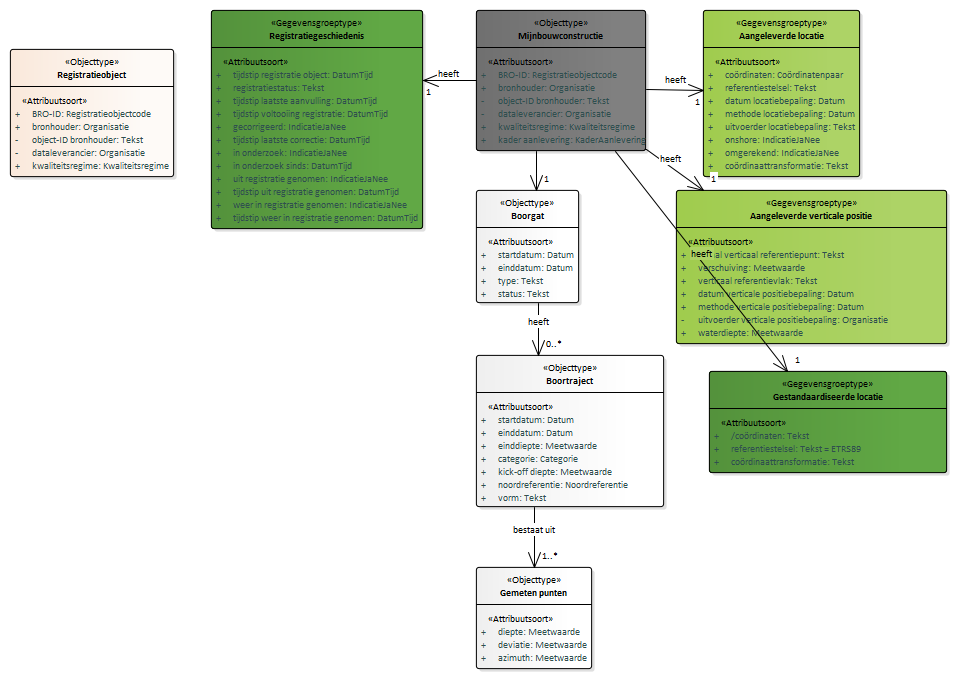
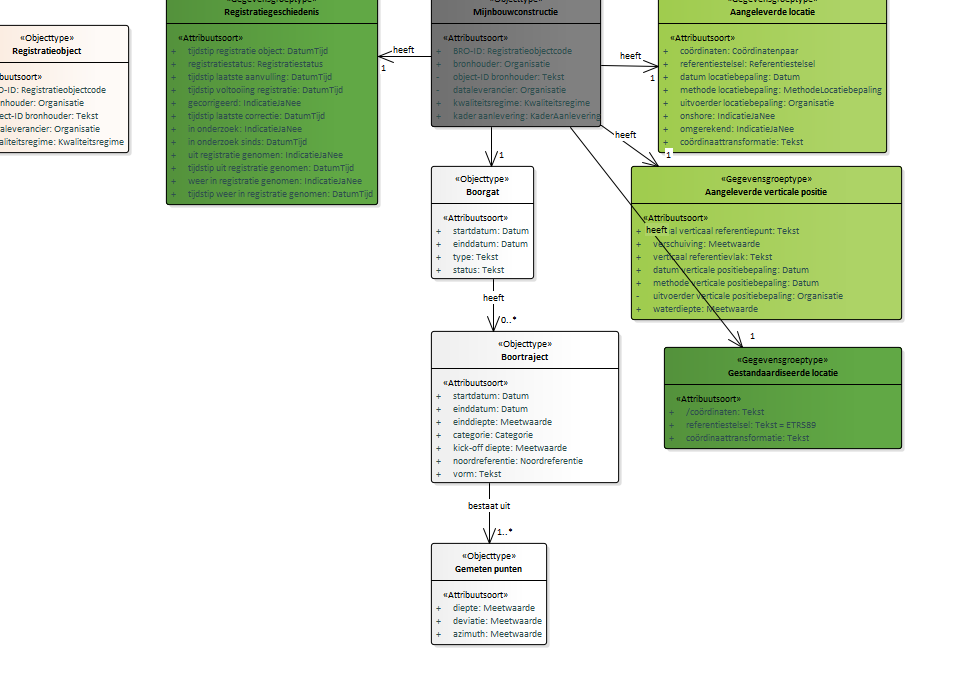
Conceptualmodel-MijnbouwconstructiesEPC-conceptueel-0.1versie27juli2020-1-20200727-20200828-161313

Changed region(s): [[0.0, 0.0, 1.0, 0.9897]]

diff --git a/data/EPC-cat.msword.html b/data/EPC-cat.msword.html
@@ -15,7 +15,7 @@
    <body>
       <p>Conceptual model/Mijnbouwconstructies (EPC) - conceptueel/20200727</p>
       <p>Imvertor: 1.61.2</p>
-      <p>Model release: Conceptualmodel-MijnbouwconstructiesEPC-conceptueel-0.1versie27juli2020-1-20200727-20200828-135237</p>
+      <p>Model release: Conceptualmodel-MijnbouwconstructiesEPC-conceptueel-0.1versie27juli2020-1-20200727-20200828-161313</p>
       <hr>
       <section>
          <h1>Artikel 1 Definitie van registratieobject, entiteiten en attributen</h1>
@@ -62,7 +62,7 @@
          <section>
             <h2>Het domeinmodel</h2>
             <section id="">
-               <div class="imageinfo overview"><img src="Images/EAID_017CB205_53B6_4659_8664_F773CFA9FA2C.png" usemap="#imagemap-EAID_017CB205_53B6_4659_8664_F773CFA9FA2C" alt="Diagram "><map name="imagemap-EAID_017CB205_53B6_4659_8664_F773CFA9FA2C"><area shape="rect" alt="Gestandaardiseerde locatie" coords="709,371,947,473" href="#graph_EAID_95E39295_3080_4135_862A_30756039B864"><area shape="rect" alt="Gemeten punten" coords="476,567,592,669" href="#graph_EAID_5A1B04C2_2C34_4376_8F2B_27867C2DD65B"><area shape="rect" alt="Boortraject" coords="476,355,664,507" href="#graph_EAID_4E52826A_2252_4994_8AD0_986AD45E18C9"><area shape="rect" alt="Boorgat" coords="476,190,579,303" href="#graph_EAID_65D8EFAF_B4C4_4398_899C_9BFD5D3AF67A"><area shape="rect" alt="Mijnbouwconstructie" coords="476,10,646,151" href="#graph_EAID_69DE8D60_7E06_4b57_94CD_8338348EDAE5"><area shape="rect" alt="Registratiegeschiedenis" coords="211,10,423,229" href="#graph_EAID_8550146B_496A_40ca_BE86_AFD377E5A6D8"><area shape="rect" alt="Aangeleverde verticale positie" coords="676,190,947,344" href="#graph_EAID_A249D799_B098_49cd_98AA_DCAE0EB07DE7"><area shape="rect" alt="Aangeleverde locatie" coords="703,10,860,177" href="#graph_EAID_EDA11EEA_8FED_44be_AC04_18B58CB46F11"></map><p><b>Mijnbouwconstructies (EPC) -  overzicht</b></p>
+               <div class="imageinfo overview"><img src="Images/EAID_017CB205_53B6_4659_8664_F773CFA9FA2C.png" usemap="#imagemap-EAID_017CB205_53B6_4659_8664_F773CFA9FA2C" alt="Diagram "><map name="imagemap-EAID_017CB205_53B6_4659_8664_F773CFA9FA2C"><area shape="rect" alt="Gestandaardiseerde locatie" coords="664,347,902,449" href="#graph_EAID_95E39295_3080_4135_862A_30756039B864"><area shape="rect" alt="Gemeten punten" coords="431,543,547,645" href="#graph_EAID_5A1B04C2_2C34_4376_8F2B_27867C2DD65B"><area shape="rect" alt="Boortraject" coords="431,331,619,483" href="#graph_EAID_4E52826A_2252_4994_8AD0_986AD45E18C9"><area shape="rect" alt="Boorgat" coords="431,166,534,279" href="#graph_EAID_65D8EFAF_B4C4_4398_899C_9BFD5D3AF67A"><area shape="rect" alt="Mijnbouwconstructie" coords="431,-14,601,127" href="#graph_EAID_69DE8D60_7E06_4b57_94CD_8338348EDAE5"><area shape="rect" alt="Registratiegeschiedenis" coords="166,-14,378,205" href="#graph_EAID_8550146B_496A_40ca_BE86_AFD377E5A6D8"><area shape="rect" alt="Aangeleverde verticale positie" coords="631,166,902,320" href="#graph_EAID_A249D799_B098_49cd_98AA_DCAE0EB07DE7"><area shape="rect" alt="Aangeleverde locatie" coords="658,-14,887,153" href="#graph_EAID_EDA11EEA_8FED_44be_AC04_18B58CB46F11"></map><p><b>Mijnbouwconstructies (EPC) -  overzicht</b></p>
                </div>
             </section>
          </section>
@@ -489,7 +489,11 @@
                            </tr>
                            <tr>
                               <th>&nbsp;&nbsp;Naam</th>
-                              <td>Tekst </td>
+                              <td><a class="link" href="#detail_class_Model_Registratiestatus">Registratiestatus</a></td>
+                           </tr>
+                           <tr>
+                              <th>&nbsp;&nbsp;Type</th>
+                              <td>Waardelijst uitbreidbaar</td>
                            </tr>
                         </tbody>
                      </table>
@@ -968,7 +972,7 @@
                      </section>
                </section><a class="anchor" id="graph_EAID_EDA11EEA_8FED_44be_AC04_18B58CB46F11"></a><a class="anchor" id="global_class_Model_Aangeleverdelocatie"></a><section id="global_class_Model_Aangeleverdelocatie">
                   <h3>   Aangeleverde locatie</h3>
-                  <div class="imageinfo "><img src="Images/EAID_4CAB2639_838A_4331_A6F3_5A53D1DA0505.png" usemap="#imagemap-EAID_4CAB2639_838A_4331_A6F3_5A53D1DA0505" alt="Diagram "><map name="imagemap-EAID_4CAB2639_838A_4331_A6F3_5A53D1DA0505"><area shape="rect" alt="Aangeleverde locatie" coords="10,10,167,177" href="#graph_EAID_EDA11EEA_8FED_44be_AC04_18B58CB46F11"></map><p><b></b></p>
+                  <div class="imageinfo "><img src="Images/EAID_4CAB2639_838A_4331_A6F3_5A53D1DA0505.png" usemap="#imagemap-EAID_4CAB2639_838A_4331_A6F3_5A53D1DA0505" alt="Diagram "><map name="imagemap-EAID_4CAB2639_838A_4331_A6F3_5A53D1DA0505"><area shape="rect" alt="Aangeleverde locatie" coords="-39,-31,190,136" href="#graph_EAID_EDA11EEA_8FED_44be_AC04_18B58CB46F11"></map><p><b></b></p>
                   </div>
                   <table style="width: 100%;">
                      <colgroup style="width: 30%;"></colgroup>
@@ -1069,16 +1073,29 @@
                            </tr>
                            <tr>
                               <th>&nbsp;&nbsp;Naam</th>
-                              <td>Tekst </td>
+                              <td><a class="link" href="#detail_class_Model_Referentiestelsel">Referentiestelsel</a></td>
+                           </tr>
+                           <tr>
+                              <th>&nbsp;&nbsp;Type</th>
+                              <td>Waardelijst uitbreidbaar</td>
                            </tr>
                            <tr>
                               <th>Regels</th>
                               <td>
                                  
                                  <p>De waarde van het attribuut moet gelijk zijn aan ETRS89 of RD wanneer de locatie aan
-                                    de landzijde van de UNCLOS-basislijn ligt.
+                                    de landzijde van de mijnbouwgrens ligt.
                                     De waarde van het attribuut moet gelijk zijn aan ETRS89 of WGS84 wanneer de locatie
-                                    aan de zeezijde van de UNCLOS-basislijn ligt. </p>
+                                    aan de zeezijde van de mijnbouwgrens ligt. </p>
+                                 </td>
+                           </tr>
+                           <tr>
+                              <th>Toelichting</th>
+                              <td>
+                                 
+                                 <p>
+                                    <em>waarom wijken we af van de UNCLOS-basislijn?</em>
+                                    </p>
                                  </td>
                            </tr>
                         </tbody>
@@ -1098,7 +1115,7 @@
                               <th>Definitie</th>
                               <td>
                                  
-                                 <p>De datum waarop de plaats van het booronderzoek op het aardoppervlak is bepaald.</p>
+                                 <p>De datum waarop de plaats van de mijnbouwconstructie op het aardoppervlak is bepaald.</p>
                                  </td>
                            </tr>
                            <tr>
@@ -1160,7 +1177,11 @@
                            </tr>
                            <tr>
                               <th>&nbsp;&nbsp;Naam</th>
-                              <td>Datum</td>
+                              <td><a class="link" href="#detail_class_Model_MethodeLocatiebepaling">MethodeLocatiebepaling</a></td>
+                           </tr>
+                           <tr>
+                              <th>&nbsp;&nbsp;Type</th>
+                              <td>Waardelijst uitbreidbaar</td>
                            </tr>
                            <tr>
                               <th>Toelichting</th>
@@ -1195,7 +1216,7 @@
                            </tr>
                            <tr>
                               <th>Juridische status</th>
-                              <td>Authentiek</td>
+                              <td>Niet-authentiek</td>
                            </tr>
                            <tr>
                               <th>Kardinaliteit</th>
@@ -1207,7 +1228,7 @@
                            </tr>
                            <tr>
                               <th>&nbsp;&nbsp;Naam</th>
-                              <td>Tekst </td>
+                              <td>Organisatie</td>
                            </tr>
                            <tr>
                               <th>Toelichting</th>
@@ -2665,6 +2686,60 @@
                </tbody>
             </table>
             </section>
+         <section id="detail_class_Model_Referentiestelsel">
+            <h3>  Referentiestelsel</h3>
+            
+            <table style="width: 100%;" class="list">
+               <colgroup></colgroup>
+               <tbody>
+                  <tr>
+                     <td>
+                        
+                        <p>De lijst met de voorkomende vormen van boortrajecten.</p>
+                        </td>
+                  </tr>
+               </tbody>
+            </table>
+            
+            <table style="width: 100%;" class="list">
+               <colgroup style="width: 50%;"></colgroup>
+               <colgroup></colgroup>
+               <tbody>
+                  <tr>
+                     <th>Waarde</th>
+                     <th>Omschrijving</th>
+                  </tr>
+                  <tr>
+                     <td>RD</td>
+                     <td>
+                        
+                        <p>Rijks Driehoekmeting - amersfoort RD New (EPSG 28992).</p>
+                        </td>
+                  </tr>
+                  <tr>
+                     <td>ETRS89</td>
+                     <td>
+                        
+                        <p>European Terrestrial Reference System 1989 (EPSG 4258).</p>
+                        </td>
+                  </tr>
+                  <tr>
+                     <td>WGS84</td>
+                     <td>
+                        
+                        <p>World Geodetic System 1984 (EPSG 4326).</p>
+                        </td>
+                  </tr>
+                  <tr>
+                     <td>ED50</td>
+                     <td>
+                        
+                        <p>European Datum 1950</p>
+                        </td>
+                  </tr>
+               </tbody>
+            </table>
+            </section>
          <section id="detail_class_Model_Vorm">
             <h3>  Vorm</h3>
             
@@ -2711,6 +2786,218 @@
                         
                         <p>Als de vorm van het traject niet horizontaal is en niet gedevieerd dan is de vorm
                            verticaal.</p>
+                        </td>
+                  </tr>
+               </tbody>
+            </table>
+            </section>
+         <section id="detail_class_Model_Registratiestatus">
+            <h3>  Registratiestatus</h3>
+            
+            <table style="width: 100%;" class="list">
+               <colgroup></colgroup>
+               <tbody>
+                  <tr>
+                     <td>
+                        
+                        <p>De lijst met de statussen waarin het registratieobject zich bevindt.</p>
+                        </td>
+                  </tr>
+               </tbody>
+            </table>
+            
+            <table style="width: 100%;" class="list">
+               <colgroup style="width: 50%;"></colgroup>
+               <colgroup></colgroup>
+               <tbody>
+                  <tr>
+                     <th>Waarde</th>
+                     <th>Omschrijving</th>
+                  </tr>
+                  <tr>
+                     <td>Aangevuld</td>
+                     <td>
+                        
+                        <p>Het registreren van de gegevens van het object heeft na de start van de registratie
+                           een vervolg gekregen. De gegevens in de registratie ondergrond zijn minimaal een keer
+                           aangevuld met nieuwe gegevens.</p>
+                        </td>
+                  </tr>
+                  <tr>
+                     <td>Geregistreerd</td>
+                     <td>
+                        
+                        <p>Het registreren van de gegevens van het object is gestart. De gegevens uit het eerste
+                           brondocument zijn in de registratie ondergrond vastgelegd. Er zijn daarna geen nieuwe
+                           gegevens geregistreerd. </p>
+                        </td>
+                  </tr>
+                  <tr>
+                     <td>Voltooid</td>
+                     <td>
+                        
+                        <p>Het registreren van de gegevens van het object is voltooid. Alle gegevens zijn in
+                           de registratie ondergrond vastgelegd en er kunnen geen nieuwe gegevens meer worden
+                           geregistreerd.</p>
+                        </td>
+                  </tr>
+               </tbody>
+            </table>
+            </section>
+         <section id="detail_class_Model_MethodeLocatiebepaling">
+            <h3>  MethodeLocatiebepaling</h3>
+            
+            <table style="width: 100%;" class="list">
+               <colgroup></colgroup>
+               <tbody>
+                  <tr>
+                     <td>
+                        
+                        <p>De lijst met de methoden voor het bepalen van de locatie van het onderzoek.</p>
+                        </td>
+                  </tr>
+               </tbody>
+            </table>
+            
+            <table style="width: 100%;" class="list">
+               <colgroup style="width: 50%;"></colgroup>
+               <colgroup></colgroup>
+               <tbody>
+                  <tr>
+                     <th>Waarde</th>
+                     <th>Omschrijving</th>
+                  </tr>
+                  <tr>
+                     <td>DGPS50tot200cm</td>
+                     <td>
+                        
+                        <p>Meting d.m.v. satellietnavigatie met differentiaalcorrectie, in het dagelijks gebruik
+                           aangeduid als DGPS. Afwijking tussen 50 en 200 cm. DGPS maakt gebruik van een wereldwijd
+                           satellietnavigatiesysteem, Global Navigation Satellite System (GNSS). GNSS wordt in
+                           het dagelijks gebruik vaak aangeduid met GPS als verzamelnaam voor de 4 systemen GPS,
+                           Glonass, Galileo en Beidou.</p>
+                        </td>
+                  </tr>
+                  <tr>
+                     <td>GPS200tot1000cm</td>
+                     <td>
+                        
+                        <p>Meting d.m.v. satellietnavigatie zonder correctie, SPP (Single Point Positioning),
+                           in het dagelijks gebruik aangeduid als GPS. Afwijking tussen 200 en 1000 cm. SPP maakt
+                           gebruik van een wereldwijd satellietnavigatiesysteem, Global Navigation Satellite
+                           System (GNSS). GNSS wordt in het dagelijks gebruik vaak aangeduid met GPS als verzamelnaam
+                           voor de 4 systemen GPS, Glonass, Galileo en Beidou.</p>
+                        </td>
+                  </tr>
+                  <tr>
+                     <td>PPPGPS0tot2cm</td>
+                     <td>
+                        
+                        <p>Meting d.m.v. PPP (Precise Point Positioning) satellietnavigatie, afwijking kleiner
+                           dan 2 cm. De nauwkeurigheid wordt bereikt wanneer de meting is uitgevoerd met Ambiguity
+                           Resolution (PPP-AR) of bij een lange meettijd. PPP maakt gebruik van een wereldwijd
+                           satellietnavigatiesysteem, Global Navigation Satellite System (GNSS). GNSS wordt in
+                           het dagelijks gebruik vaak aangeduid met GPS als verzamelnaam voor de 4 systemen GPS,
+                           Glonass, Galileo en Beidou.</p>
+                        </td>
+                  </tr>
+                  <tr>
+                     <td>PPPGPS2tot5cm</td>
+                     <td>
+                        
+                        <p>Meting d.m.v. PPP (Precise Point Positioning) satellietnavigatie, afwijking tussen
+                           2 en 5 cm. De nauwkeurigheid wordt bereikt wanneer de meting is uitgevoerd met Ambiguity
+                           Resolution (PPP-AR) of bij een lange meettijd. PPP maakt gebruik van een wereldwijd
+                           satellietnavigatiesysteem, Global Navigation Satellite System (GNSS). GNSS wordt in
+                           het dagelijks gebruik vaak aangeduid met GPS als verzamelnaam voor de 4 systemen GPS,
+                           Glonass, Galileo en Beidou.</p>
+                        </td>
+                  </tr>
+                  <tr>
+                     <td>PPPGPS5tot10cm</td>
+                     <td>
+                        
+                        <p>Meting d.m.v. PPP (Precise Point Positioning) satellietnavigatie, afwijking tussen
+                           5 en 10 cm. De nauwkeurigheid wordt bereikt wanneer de meting is uitgevoerd met Ambiguity
+                           Resolution (PPP-AR) of bij een lange meettijd. PPP maakt gebruik van een wereldwijd
+                           satellietnavigatiesysteem, Global Navigation Satellite System (GNSS). GNSS wordt in
+                           het dagelijks gebruik vaak aangeduid met GPS als verzamelnaam voor de 4 systemen GPS,
+                           Glonass, Galileo en Beidou.</p>
+                        </td>
+                  </tr>
+                  <tr>
+                     <td>PPPGPS10tot50cm</td>
+                     <td>
+                        
+                        <p>Meting d.m.v. PPP (Precise Point Positioning) satellietnavigatie, afwijking tussen
+                           10 en 50 cm. De nauwkeurigheid wordt bereikt wanneer de meting is uitgevoerd in korte
+                           tijd zonder Ambiguity Resolution. PPP maakt gebruik van een wereldwijd satellietnavigatiesysteem,
+                           Global Navigation Satellite System (GNSS). GNSS wordt in het dagelijks gebruik vaak
+                           aangeduid met GPS als verzamelnaam voor de 4 systemen GPS, Glonass, Galileo en Beidou.</p>
+                        </td>
+                  </tr>
+                  <tr>
+                     <td>RTKGPS0tot2cm</td>
+                     <td>
+                        
+                        <p>Meting d.m.v. RTK (Real Time Kinematic) satellietnavigatie, in het dagelijks gebruik
+                           ook wel aangeduid als DGPS, afwijking kleiner dan 2 cm. De nauwkeurigheid wordt bereikt
+                           wanneer de meting is uitgevoerd met Ambiguity Resolution (ook wel fix). RTK maakt
+                           gebruik van een wereldwijd satellietnavigatiesysteem, Global Navigation Satellite
+                           System (GNSS). GNSS wordt in het dagelijks gebruik vaak aangeduid met GPS als verzamelnaam
+                           voor de 4 systemen GPS, Glonass, Galileo en Beidou.</p>
+                        </td>
+                  </tr>
+                  <tr>
+                     <td>RTKGPS2tot5cm</td>
+                     <td>
+                        
+                        <p>Meting d.m.v. RTK (Real Time Kinematic) satellietnavigatie, in het dagelijks gebruik
+                           ook wel aangeduid als DGPS, afwijking tussen 2 en 5 cm. De nauwkeurigheid wordt bereikt
+                           wanneer de meting is uitgevoerd met Ambiguity Resolution (ook wel fix). RTK maakt
+                           gebruik van een wereldwijd satellietnavigatiesysteem, Global Navigation Satellite
+                           System (GNSS). GNSS wordt in het dagelijks gebruik vaak aangeduid met GPS als verzamelnaam
+                           voor de 4 systemen GPS, Glonass, Galileo en Beidou.</p>
+                        </td>
+                  </tr>
+                  <tr>
+                     <td>RTKGPS5tot10cm</td>
+                     <td>
+                        
+                        <p>Meting d.m.v. RTK (Real Time Kinematic) satellietnavigatie, in het dagelijks gebruik
+                           ook wel aangeduid als DGPS, afwijking tussen 5 en 10 cm. De nauwkeurigheid wordt bereikt
+                           wanneer de meting is uitgevoerd met Ambiguity Resolution (ook wel fix). RTK maakt
+                           gebruik van een wereldwijd satellietnavigatiesysteem, Global Navigation Satellite
+                           System (GNSS). GNSS wordt in het dagelijks gebruik vaak aangeduid met GPS als verzamelnaam
+                           voor de 4 systemen GPS, Glonass, Galileo en Beidou.</p>
+                        </td>
+                  </tr>
+                  <tr>
+                     <td>RTKGPS10tot50cm</td>
+                     <td>
+                        
+                        <p>Meting d.m.v. RTK (Real Time Kinematic) satellietnavigatie, in het dagelijks gebruik
+                           ook wel aangeduid als DGPS, afwijking tussen 10 en 50 cm. De nauwkeurigheid wordt
+                           bereikt wanneer de meting is uitgevoerd zonder Ambiguity Resolution (ook wel fix).
+                           RTK maakt gebruik van een wereldwijd satellietnavigatiesysteem, Global Navigation
+                           Satellite System (GNSS). GNSS wordt in het dagelijks gebruik vaak aangeduid met GPS
+                           als verzamelnaam voor de 4 systemen GPS, Glonass, Galileo en Beidou.</p>
+                        </td>
+                  </tr>
+                  <tr>
+                     <td>tachymetrie0tot10cm</td>
+                     <td>
+                        
+                        <p>Meting d.m.v. tachymetrie, ook wel als landmeting of Total Station aangeduid, vanaf
+                           een referentiepunt dat geen NAP-peilmerk is, afwijking kleiner dan 10 cm.</p>
+                        </td>
+                  </tr>
+                  <tr>
+                     <td>tachymetrie10tot50cm</td>
+                     <td>
+                        
+                        <p>Meting d.m.v. tachymetrie, ook wel als landmeting of Total Station aangeduid, vanaf
+                           een referentiepunt dat geen NAP-peilmerk is, afwijking tussen 10 en 50 cm.</p>
                         </td>
                   </tr>
                </tbody>
